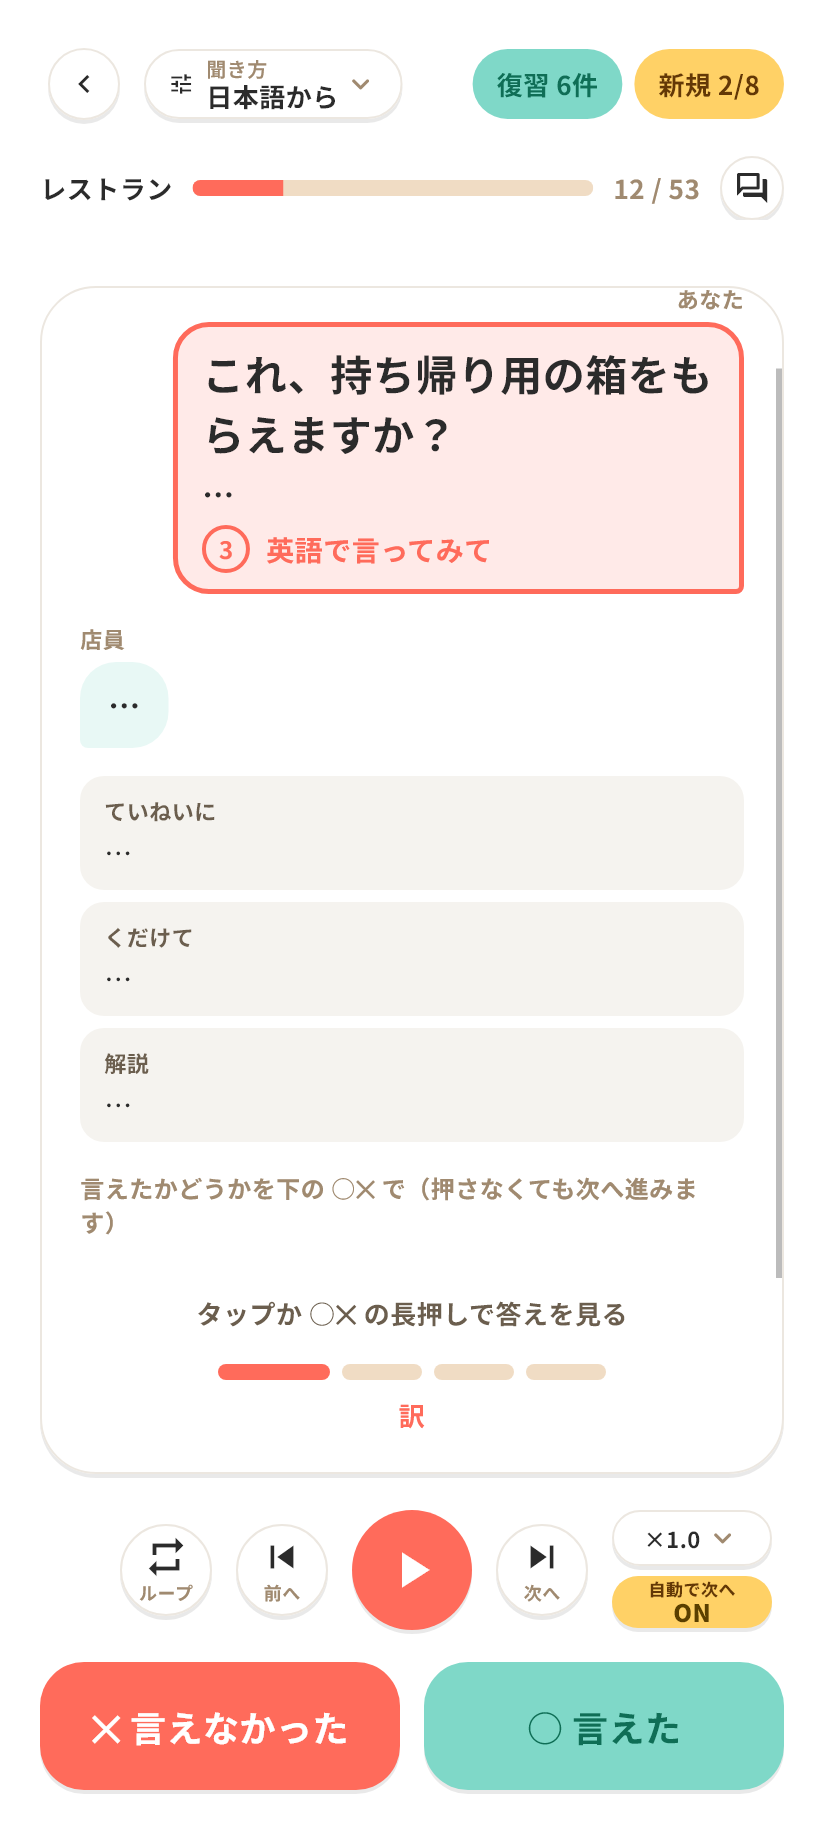
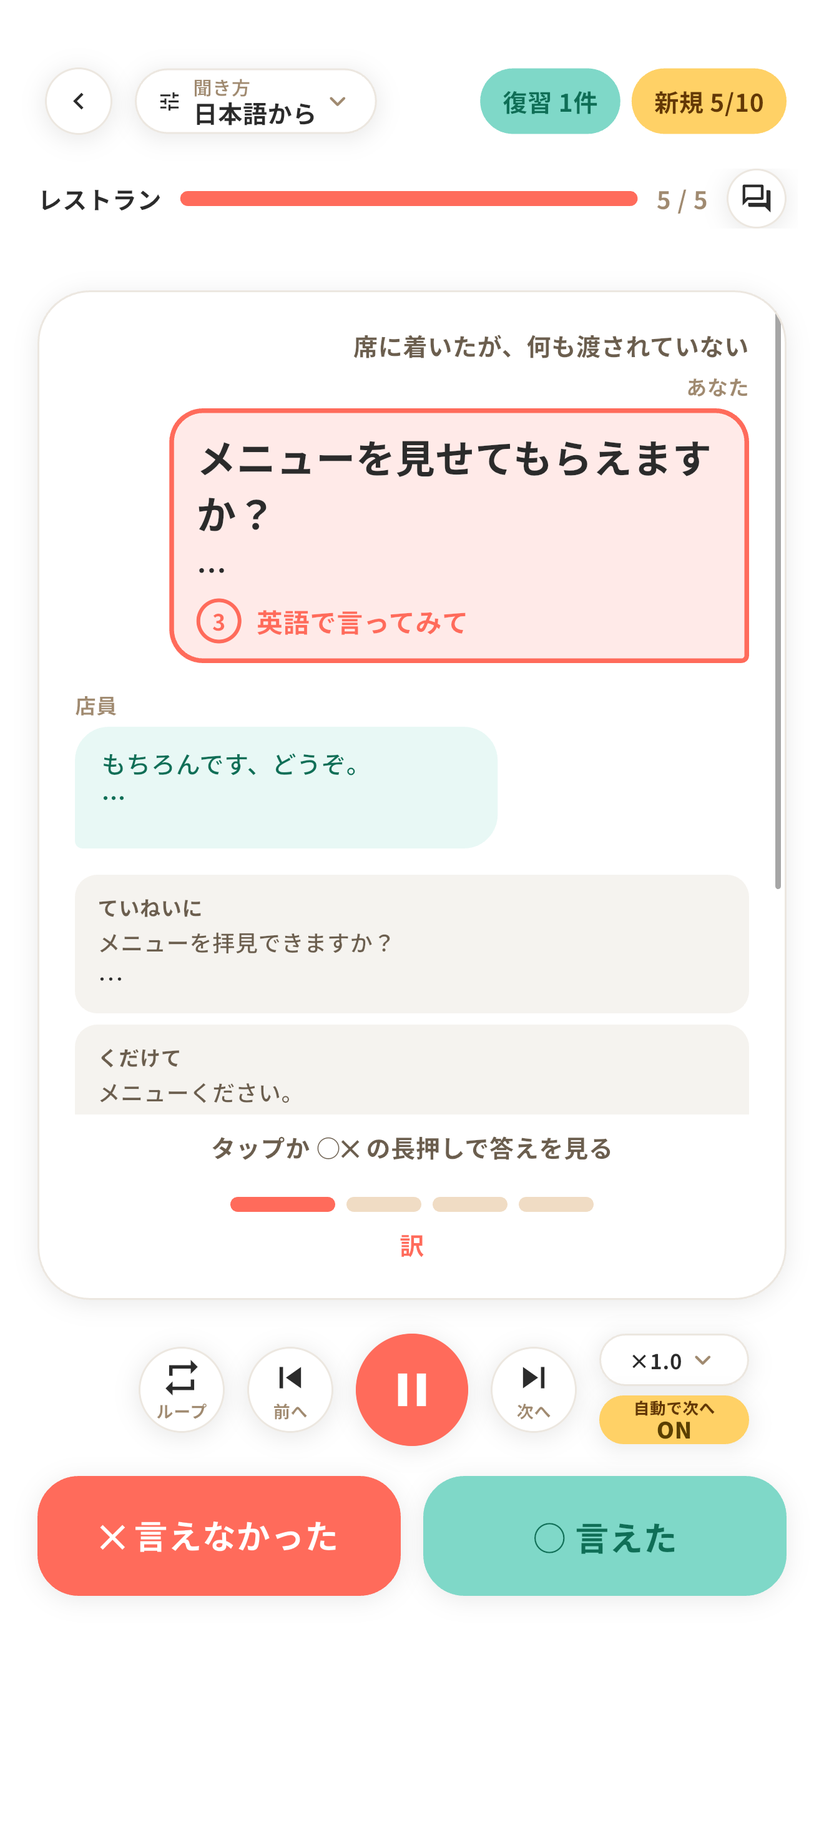
ながら英会話：日本語からの表と裏の画像を 9facf6b の画面（答えの前は訳と解説を見せて英語だけ伏せる、答えのあとも訳が上）に差し替え（Mac のシミュレータ、Ko 2026-11-19）

diff --git a/src/content/apps/nagara-eikaiwa/index.md b/src/content/apps/nagara-eikaiwa/index.md
@@ -12,7 +12,7 @@ screenshots:
   - src: ../../../assets/apps/nagara-eikaiwa/1.png
     alt: ホーム。場面を選んで ▶ 聞くを押すだけで、例文を順に聞ける
   - src: ../../../assets/apps/nagara-eikaiwa/2.png
-    alt: 日本語から。訳を聞いて、英語で言ってみる
+    alt: 日本語から。訳と解説を聞いて、英語で言ってみる
   - src: ../../../assets/apps/nagara-eikaiwa/3.png
     alt: 答え合わせ。英文と相手の返し、ていねい・くだけた言い方、解説まで音声で
   - src: ../../../assets/apps/nagara-eikaiwa/4.png
